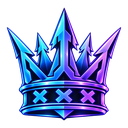
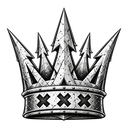
Black and white crown; monochrome NeoWEB page
The crown is now the black and white one (the colour one is kept in
branding/previous). In greys the 128 px icon fits under 8 KB with 16 levels
and no blur, so the default icon is as sharp as the full one. The page uses
white and steel instead of cyan and violet; status colours are unchanged.

diff --git a/web/webui/index.html b/web/webui/index.html
@@ -5,12 +5,12 @@
 <meta name="viewport" content="width=device-width,initial-scale=1,viewport-fit=cover">
 <meta name="theme-color" content="#0B0F1A">
 <title>NeoWEB</title>
[2 lines of base64/hex data omitted]
 <style>
 :root{
-  --bg:#07091A; --panel:rgba(22,29,48,.72); --line:rgba(132,153,204,.16);
-  --line2:rgba(132,153,204,.28); --text:#EAF0FF; --dim:#8D9ABC; --faint:#5B6788;
-  --blue:#52C8FA; --violet:#B258F8; --ok:#34D399; --warn:#FBBF24; --bad:#F87171;
+  --bg:#0A0B0E; --panel:rgba(20,22,27,.78); --line:rgba(160,166,180,.16);
+  --line2:rgba(160,166,180,.28); --text:#F1F3F7; --dim:#9499A6; --faint:#626773;
+  --blue:#F2F4F8; --violet:#8B93A7; --ok:#34D399; --warn:#FBBF24; --bad:#F87171;
   --r:14px; --mono:ui-monospace,"SFMono-Regular","Cascadia Mono",Consolas,monospace;
 }
 *{box-sizing:border-box}
@@ -21,10 +21,10 @@ body{
   font:15px/1.45 Inter,"Segoe UI",system-ui,-apple-system,Roboto,sans-serif;
   -webkit-font-smoothing:antialiased;
   background-image:
-    radial-gradient(900px 520px at 12% -8%,rgba(82,200,250,.17),transparent 60%),
-    radial-gradient(820px 520px at 96% 4%,rgba(178,88,248,.15),transparent 62%),
-    linear-gradient(rgba(132,153,204,.035) 1px,transparent 1px),
-    linear-gradient(90deg,rgba(132,153,204,.035) 1px,transparent 1px);
+    radial-gradient(900px 520px at 12% -8%,rgba(226,230,240,.17),transparent 60%),
+    radial-gradient(820px 520px at 96% 4%,rgba(139,147,167,.15),transparent 62%),
+    linear-gradient(rgba(160,166,180,.035) 1px,transparent 1px),
+    linear-gradient(90deg,rgba(160,166,180,.035) 1px,transparent 1px);
   background-size:auto,auto,44px 44px,44px 44px; background-attachment:fixed;
 }
 .wrap{max-width:1180px;margin:0 auto;padding:22px 16px 56px}
@@ -32,7 +32,7 @@ button,input{font:inherit;color:inherit}
 .grad{background:linear-gradient(100deg,var(--blue),var(--violet));-webkit-background-clip:text;background-clip:text;color:transparent}
 
 header.top{display:flex;align-items:center;gap:12px;margin-bottom:16px}
-.logo{width:46px;height:46px;flex:none;object-fit:contain;filter:drop-shadow(0 0 10px rgba(100,140,248,.45))}
+.logo{width:46px;height:46px;flex:none;object-fit:contain;filter:drop-shadow(0 0 10px rgba(255,255,255,.22))}
 .brand{font-size:21px;font-weight:300;letter-spacing:.01em;color:#fff}
 .brand b{font-weight:850}
 .brand small{display:block;font:500 11px var(--mono);letter-spacing:.14em;color:var(--faint);text-transform:uppercase;margin-top:1px}
@@ -49,17 +49,17 @@ nav.tabs button{flex:1;display:flex;align-items:center;justify-content:center;ga
   padding:11px 10px;border-radius:10px;font-weight:680;color:var(--dim);transition:background .15s,color .15s;min-width:0}
 nav.tabs button svg{width:18px;height:18px;flex:none}
 nav.tabs button span{overflow:hidden;text-overflow:ellipsis;white-space:nowrap}
-nav.tabs button em{font:700 11px var(--mono);font-style:normal;padding:2px 7px;border-radius:999px;background:rgba(132,153,204,.14);color:var(--dim)}
-nav.tabs button:hover{color:var(--text);background:rgba(132,153,204,.08)}
-nav.tabs button.on{color:var(--text);background:linear-gradient(100deg,rgba(82,200,250,.22),rgba(178,88,248,.22));box-shadow:inset 0 0 0 1px rgba(82,200,250,.35)}
-nav.tabs button.on em{background:rgba(82,200,250,.25);color:var(--text)}
+nav.tabs button em{font:700 11px var(--mono);font-style:normal;padding:2px 7px;border-radius:999px;background:rgba(160,166,180,.14);color:var(--dim)}
+nav.tabs button:hover{color:var(--text);background:rgba(160,166,180,.08)}
+nav.tabs button.on{color:var(--text);background:linear-gradient(100deg,rgba(226,230,240,.22),rgba(139,147,167,.22));box-shadow:inset 0 0 0 1px rgba(226,230,240,.35)}
+nav.tabs button.on em{background:rgba(226,230,240,.25);color:var(--text)}
 
 .card{background:var(--panel);border:1px solid var(--line);border-radius:var(--r);
   backdrop-filter:blur(14px);-webkit-backdrop-filter:blur(14px)}
-.hero{padding:20px;position:relative;overflow:hidden;border-color:rgba(82,200,250,.3)}
+.hero{padding:20px;position:relative;overflow:hidden;border-color:rgba(226,230,240,.3)}
 .hero::before{content:"";position:absolute;inset:0;pointer-events:none;opacity:.55;
-  background:radial-gradient(520px 220px at 0 0,rgba(82,200,250,.2),transparent 70%),
-             radial-gradient(520px 240px at 100% 100%,rgba(178,88,248,.18),transparent 70%)}
+  background:radial-gradient(520px 220px at 0 0,rgba(226,230,240,.2),transparent 70%),
+             radial-gradient(520px 240px at 100% 100%,rgba(139,147,167,.18),transparent 70%)}
 .hero>*{position:relative}
 .hero-bg{position:absolute;inset:-30px;background-size:cover;background-position:center;
   filter:blur(34px) saturate(1.3);opacity:0;transition:opacity .5s}
@@ -77,7 +77,7 @@ nav.tabs button.on em{background:rgba(82,200,250,.25);color:var(--text)}
 .now span{font:500 12.5px var(--mono);color:var(--dim)}
 .btn{border:1px solid var(--line2);background:rgba(15,21,37,.75);border-radius:10px;padding:10px 16px;
   font-weight:650;cursor:pointer;transition:transform .12s,border-color .15s,background .15s;white-space:nowrap}
-.btn:hover{border-color:var(--blue);background:rgba(82,200,250,.12)}
+.btn:hover{border-color:var(--blue);background:rgba(226,230,240,.12)}
 .btn:active{transform:scale(.97)}
 .btn.sm{padding:7px 12px;font-size:13.5px}
 .btn.pri{border:0;color:#06101F;background:linear-gradient(100deg,var(--blue),var(--violet))}
@@ -95,7 +95,7 @@ h3.h em{font-style:normal;color:var(--faint)}
 .gauges{display:flex;justify-content:space-around;gap:10px;flex-wrap:wrap}
 .g{position:relative;width:132px;text-align:center}
 .g svg{width:132px;height:108px;display:block}
-.g .trk{fill:none;stroke:rgba(132,153,204,.14);stroke-width:9;stroke-linecap:round}
+.g .trk{fill:none;stroke:rgba(160,166,180,.14);stroke-width:9;stroke-linecap:round}
 .g .arc{fill:none;stroke-width:9;stroke-linecap:round;transition:stroke-dashoffset .7s cubic-bezier(.3,.7,.2,1),stroke .4s}
 .g .v{position:absolute;left:0;right:0;top:44px;font-size:30px;font-weight:780;letter-spacing:-.03em}
 .g .v small{font:600 12px var(--mono);color:var(--dim);margin-left:2px}
@@ -111,7 +111,7 @@ h3.h em{font-style:normal;color:var(--faint)}
 .disk{margin-top:13px}
 .disk .r{display:flex;justify-content:space-between;font-weight:650}
 .disk .r em{font:600 12px var(--mono);font-style:normal;color:var(--dim)}
-.bar{height:6px;border-radius:4px;background:rgba(132,153,204,.14);margin:7px 0 5px;overflow:hidden}
+.bar{height:6px;border-radius:4px;background:rgba(160,166,180,.14);margin:7px 0 5px;overflow:hidden}
 .bar i{display:block;height:100%;border-radius:4px;background:linear-gradient(90deg,var(--blue),var(--violet));transition:width .6s}
 .bar i.hot{background:linear-gradient(90deg,var(--warn),var(--bad))}
 .disk small{font:500 11.5px var(--mono);color:var(--faint)}
@@ -122,7 +122,7 @@ h3.h em{font-style:normal;color:var(--faint)}
 .in:focus{border-color:var(--blue)}
 .seg{display:inline-flex;border:1px solid var(--line2);border-radius:10px;overflow:hidden}
 .seg button{border:0;background:transparent;padding:9px 13px;cursor:pointer;font-weight:620;color:var(--dim)}
-.seg button.on{background:rgba(82,200,250,.16);color:var(--text)}
+.seg button.on{background:rgba(226,230,240,.16);color:var(--text)}
 .grid{display:grid;grid-template-columns:repeat(auto-fill,minmax(150px,1fr));gap:16px 14px}
 .game{min-width:0}
 .cover{position:relative;aspect-ratio:1;border-radius:12px;overflow:hidden;background:#070A12;border:1px solid var(--line);
@@ -131,7 +131,7 @@ h3.h em{font-style:normal;color:var(--faint)}
 .cover .ph{position:absolute;inset:0;display:grid;place-items:center;font:700 13px var(--mono);color:var(--faint);letter-spacing:.06em}
 .cover .go{position:absolute;inset:auto 0 0 0;padding:26px 10px 10px;display:flex;justify-content:center;
   background:linear-gradient(transparent,rgba(5,8,15,.92));opacity:0;transform:translateY(8px);transition:.18s}
-.game:hover .cover,.game:focus-within .cover{transform:translateY(-3px);border-color:rgba(82,200,250,.6);box-shadow:0 14px 34px -14px rgba(82,200,250,.55)}
+.game:hover .cover,.game:focus-within .cover{transform:translateY(-3px);border-color:rgba(226,230,240,.6);box-shadow:0 14px 34px -14px rgba(226,230,240,.55)}
 .game:hover .go,.game:focus-within .go{opacity:1;transform:none}
 .game.run .cover{border-color:var(--ok);box-shadow:0 0 0 1px var(--ok),0 12px 34px -12px rgba(52,211,153,.6)}
 .tag{position:absolute;left:8px;bottom:8px;padding:4px 9px;border-radius:7px;background:var(--ok);color:#04130D;font:800 10.5px var(--mono);letter-spacing:.1em}
@@ -141,19 +141,19 @@ h3.h em{font-style:normal;color:var(--faint)}
 
 .drop{display:flex;align-items:center;gap:16px;padding:18px 20px;border:1.5px dashed var(--line2);border-radius:var(--r);
   background:rgba(15,21,37,.5);transition:border-color .15s,background .15s;margin-bottom:14px}
-.drop.over{border-color:var(--blue);background:rgba(82,200,250,.1)}
+.drop.over{border-color:var(--blue);background:rgba(226,230,240,.1)}
 .drop .ic{width:46px;height:46px;border-radius:12px;display:grid;place-items:center;flex:none;color:var(--blue);
-  background:linear-gradient(140deg,rgba(82,200,250,.18),rgba(178,88,248,.18));border:1px solid var(--line2)}
+  background:linear-gradient(140deg,rgba(226,230,240,.18),rgba(139,147,167,.18));border:1px solid var(--line2)}
 .drop .tx{flex:1;min-width:0}
 .drop .tx b{display:block;font-weight:700}
 .drop .tx span{font-size:13.5px;color:var(--dim)}
-.prog{height:4px;border-radius:3px;background:rgba(132,153,204,.14);margin-top:9px;overflow:hidden}
+.prog{height:4px;border-radius:3px;background:rgba(160,166,180,.14);margin-top:9px;overflow:hidden}
 .prog i{display:block;height:100%;width:0;background:linear-gradient(90deg,var(--blue),var(--violet));transition:width .15s}
 .note{padding:11px 15px;border-radius:11px;border:1px solid rgba(251,191,36,.4);background:rgba(251,191,36,.08);color:#FDE68A;margin-bottom:14px;font-size:14px}
 .plist{overflow:hidden}
 .prow{display:flex;align-items:center;gap:14px;padding:14px 18px;border-top:1px solid var(--line)}
 .prow:first-child{border-top:0}
-.dot{width:10px;height:10px;border-radius:50%;flex:none;background:rgba(132,153,204,.3)}
+.dot{width:10px;height:10px;border-radius:50%;flex:none;background:rgba(160,166,180,.3)}
 .prow.run .dot{background:var(--ok);box-shadow:0 0 0 4px rgba(52,211,153,.16)}
 .pmain{flex:1;min-width:0}
 .pmain b{display:block;font-weight:700;overflow:hidden;text-overflow:ellipsis;white-space:nowrap}
@@ -163,7 +163,7 @@ h3.h em{font-style:normal;color:var(--faint)}
 .badge.ok{border-color:rgba(52,211,153,.5);color:var(--ok)}
 .sw{display:inline-flex;align-items:center;gap:8px;cursor:pointer;font-size:13px;color:var(--dim);white-space:nowrap;user-select:none}
 .sw input{position:absolute;opacity:0;pointer-events:none}
-.sw i{width:36px;height:20px;border-radius:999px;background:rgba(132,153,204,.22);position:relative;transition:background .15s;flex:none}
+.sw i{width:36px;height:20px;border-radius:999px;background:rgba(160,166,180,.22);position:relative;transition:background .15s;flex:none}
 .sw i::after{content:"";position:absolute;left:3px;top:3px;width:14px;height:14px;border-radius:50%;background:#C9D3EE;transition:transform .15s}
 .sw input:checked+i{background:linear-gradient(100deg,var(--blue),var(--violet))}
 .sw input:checked+i::after{transform:translateX(16px);background:#fff}
@@ -368,10 +368,10 @@ function spark(){
   if(hi<lo)return;var a=lo-3,b=hi+3;
   function line(i){return hist.map(function(h,x){return (x/(n-1)*600).toFixed(1)+","+(70-(h[i]-a)/(b-a)*66).toFixed(1)}).join(" ")}
   var c=line(0);
-  s.innerHTML='<defs><linearGradient id="sg" x1="0" y1="0" x2="0" y2="1"><stop offset="0" stop-color="#52C8FA" stop-opacity=".28"/><stop offset="1" stop-color="#52C8FA" stop-opacity="0"/></linearGradient></defs>'+
+  s.innerHTML='<defs><linearGradient id="sg" x1="0" y1="0" x2="0" y2="1"><stop offset="0" stop-color="#F2F4F8" stop-opacity=".28"/><stop offset="1" stop-color="#F2F4F8" stop-opacity="0"/></linearGradient></defs>'+
     '<polygon fill="url(#sg)" points="0,74 '+c+' 600,74"/>'+
-    '<polyline fill="none" stroke="#B258F8" stroke-width="1.6" stroke-dasharray="3 4" vector-effect="non-scaling-stroke" points="'+line(1)+'"/>'+
-    '<polyline fill="none" stroke="#52C8FA" stroke-width="2" vector-effect="non-scaling-stroke" points="'+c+'"/>';
+    '<polyline fill="none" stroke="#8B93A7" stroke-width="1.6" stroke-dasharray="3 4" vector-effect="non-scaling-stroke" points="'+line(1)+'"/>'+
+    '<polyline fill="none" stroke="#F2F4F8" stroke-width="2" vector-effect="non-scaling-stroke" points="'+c+'"/>';
   $("sp-r").textContent=lo+"–"+hi+" °C"}
 function paintNow(){
   var img=$("nowimg"),ph=$("nowph");

diff --git a/tools/branding/make_icons.py b/tools/branding/make_icons.py
@@ -4,9 +4,9 @@
 The originals are never modified. Outputs:
 
   source/bootstrapper/assets/neohen/neohen_sicon.png
-      128x128 RGBA, under 8 KB (24 colours), default. neohen_sicon_full.png is the
-      same icon in full colour (~25 KB), selectable with NEOHEN_ICON=full.
-      Colour emblem on a transparent background. Replaces
+      128x128 RGBA, under 8 KB (16 greys), default. neohen_sicon_full.png is the
+      same icon without that reduction (~26 KB), selectable with NEOHEN_ICON=full.
+      The crown, black and white, on a transparent background. Replaces
       onionhen_sicon.png: startup notification icon, HomeUI top-nav icon
       (normal and focused/inverted state) and the Settings entry icon.
   assets/neohen-logo.png
@@ -32,7 +32,7 @@ import io
 import sys
 from pathlib import Path
 
-from PIL import Image, ImageFilter
+from PIL import Image
 
 ROOT = Path(__file__).resolve().parents[2]
 SRC = ROOT / "branding"
@@ -48,11 +48,9 @@ SICON_SIZE = 128
 # The OnionHEN icon that HomeUI is known to load is 128x128 RGBA, 5.9 KB.
 # Stay in the same order of magnitude until a larger file is tested.
 SICON_MAX_BYTES = 32 * 1024
-# The default icon is reduced towards that known-good size: colour noise is
-# smoothed (alpha untouched) and the image limited to SICON_LIGHT_COLORS
-# colours, then stored again as 128x128 RGBA.
-SICON_LIGHT_COLORS = 24
-SICON_LIGHT_SMOOTH = 0.9
+# The default icon is reduced towards that known-good size by limiting it to
+# SICON_LIGHT_LEVELS greys, then stored again as 128x128 RGBA.
+SICON_LIGHT_LEVELS = 16
 SICON_LIGHT_MAX_BYTES = 8 * 1024
 LOGO_SIZE = 512
 SPLASH_WIDTH = 1280
@@ -81,16 +79,14 @@ def build_emblem(size: int, margin: float) -> Image.Image:
 
 
 def lighten(img: Image.Image) -> Image.Image:
-    """Fewer colours and alpha levels, same size and RGBA mode: a much
-    smaller PNG. The crown has far more detail than fits in 8 KB, so this
-    one is soft; at the ~40 px HomeUI draws it, it reads the same."""
-    rgb = img.convert("RGB").filter(ImageFilter.GaussianBlur(SICON_LIGHT_SMOOTH))
+    """Fewer grey and alpha levels, same size and RGBA mode: a much smaller
+    PNG that looks the same. The crown is black and white, so SICON_LIGHT_LEVELS
+    greys are enough."""
+    step = 255 / (SICON_LIGHT_LEVELS - 1)
+    grey = img.convert("L").point(lambda v: round(round(v / step) * step))
     alpha = img.getchannel("A").point(
         lambda v: 0 if v < 24 else 255 if v > 231 else round(v / 51) * 51)
-    out = rgb.quantize(colors=SICON_LIGHT_COLORS,
-                       method=Image.Quantize.MAXCOVERAGE,
-                       dither=Image.Dither.NONE).convert("RGBA")
-    out.putalpha(alpha)
+    out = Image.merge("RGBA", (grey, grey, grey, alpha))
     # fully transparent pixels all get the same colour, so they compress
     clear = Image.new("RGBA", out.size, (0, 0, 0, 0))
     return Image.composite(out, clear, alpha.point(lambda v: 255 if v else 0))

diff --git a/tools/branding/make_splash.py b/tools/branding/make_splash.py
@@ -21,7 +21,7 @@ WORD = ROOT / "branding/neohen-wordmark.png"
 OUT = ROOT / "branding/neohen-splash.png"
 
 W, H = 2560, 960
-BG = (7, 9, 26)
+BG = (9, 10, 13)
 
 
 def main() -> int:
